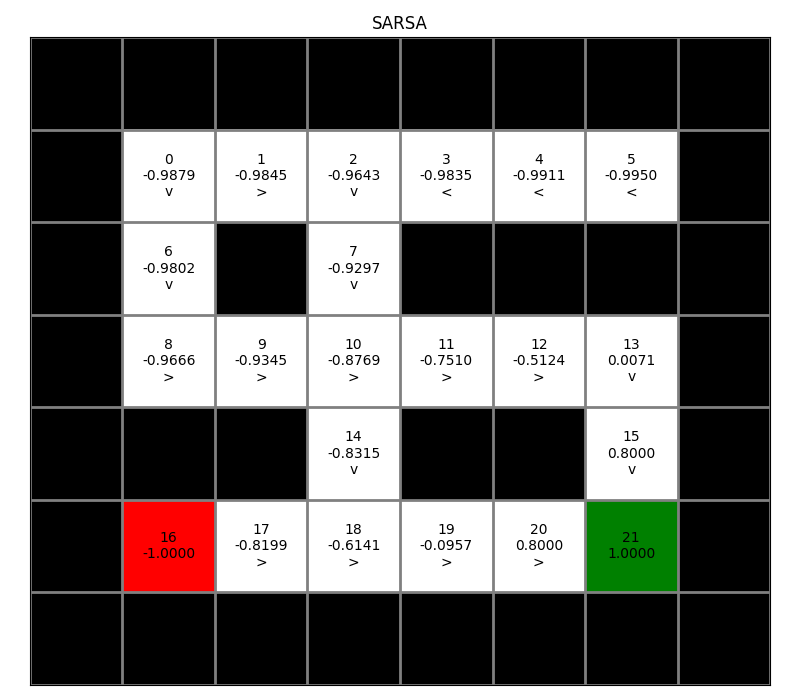
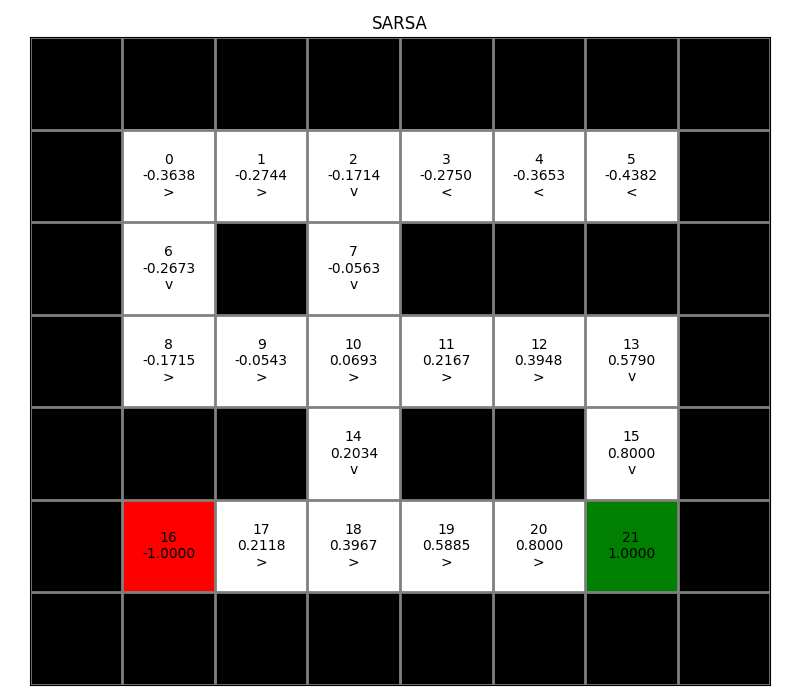
complete coding, before report

diff --git a/RL_hw2/algorithms.py b/RL_hw2/algorithms.py
@@ -2,6 +2,7 @@ import numpy as np
 import json
 from collections import deque
 import math
+import random
 
 from gridworld import GridWorld
 
@@ -366,6 +367,13 @@ class SARSA(ModelFreeControl):
         else:
             self.q_values[s,a] = self.q_values[s,a] + self.lr*(r + self.discount_factor*self.q_values[s2,a2] - self.q_values[s,a])
         
+        #improve the policy
+        a_star = np.argmax(self.q_values[s])
+        for a in range(4):#a=0,1,2,3
+            if a==a_star:
+                self.policy[s,a] = self.epsilon/4 + 1 - self.epsilon
+            else:
+                self.policy[s,a] = self.epsilon/4
         
 
     def run(self, max_episode=1000) -> None:
@@ -375,6 +383,7 @@ class SARSA(ModelFreeControl):
         current_state = self.grid_world.reset()
         St= current_state
         At, next_state, reward, done = self.collect_data() #now agent at 2nd state, due to step()
+        # St=next_state
         prev_s = None
         prev_a = None
         prev_r = None
@@ -421,22 +430,40 @@ class Q_Learning(ModelFreeControl):
 
     def add_buffer(self, s, a, r, s2, d) -> None:
         # TODO: add new transition to buffer
-        raise NotImplementedError
+        self.buffer.append([s,a,r,s2,d])
 
     def sample_batch(self) -> np.ndarray:
         # TODO: sample a batch of index of transitions from the buffer
-        raise NotImplementedError
+        batch = random.sample(self.buffer, self.sample_batch_size)
+        batch_np = np.array(batch,dtype=object)
+        return batch_np
 
     def policy_eval_improve(self, s, a, r, s2, is_done) -> None:
         """Evaluate the policy and update the values after one step"""
         #TODO: Evaluate Q value after one step and improve the policy
-        raise NotImplementedError
+        if is_done:
+            self.q_values[s,a] = self.q_values[s,a] + self.lr * (r + 0 - self.q_values[s,a])
+        else:
+            # print(s2)
+            # print(self.q_values[s2,0])
+            # print([self.q_values[s2,a2] for a2 in range(4)])
+            # print(max([self.q_values[s2,a2] for a2 in range(4)]))
+            self.q_values[s,a] = self.q_values[s,a] + self.lr * (r + self.discount_factor*max([self.q_values[s2,a2] for a2 in range(4)]) - self.q_values[s,a])
+
+        #improve the policy
+        a_star = np.argmax(self.q_values[s])
+        for a in range(4):#a=0,1,2,3
+            if a==a_star:
+                self.policy[s,a] = self.epsilon/4 + 1 - self.epsilon
+            else:
+                self.policy[s,a] = self.epsilon/4
 
     def run(self, max_episode=1000) -> None:
         """Run the algorithm until convergence."""
         # TODO: Implement the Q_Learning algorithm
         iter_episode = 0
         current_state = self.grid_world.reset()
+        St= current_state
         prev_s = None
         prev_a = None
         prev_r = None
@@ -445,6 +472,23 @@ class Q_Learning(ModelFreeControl):
         while iter_episode < max_episode:
             # TODO: write your code here
             # hint: self.grid_world.reset() is NOT needed here
+            At, next_state, reward, is_done = self.collect_data() 
 
-            raise NotImplementedError
+            #store to the transition
+            self.add_buffer(St,At,reward,next_state,is_done)
+
+            transition_count+=1
+            if transition_count%self.update_frequency==0 and len(self.buffer)>self.sample_batch_size: #then update Q
+                Batch = self.sample_batch()
+                for [s,a,r,s2,done] in Batch:
+                    # s = int(s)
+                    # a = int(a)
+                    self.policy_eval_improve(s,a,r,s2,done)
+
+            if is_done:
+                iter_episode+=1
+                if iter_episode%1000==0:
+                    print(iter_episode)
+
+            St = next_state
             

diff --git a/RL_hw2/main.py b/RL_hw2/main.py
@@ -46,14 +46,14 @@ def red(s):
     return "\033[91m" + str(s) + "\033[0m"
 
 
-def init_grid_world(maze_file: str = "maze.txt"):
+def init_grid_world(maze_file: str = "maze.txt", init_pos: list = None):
     print(bold(underline("Grid World")))
     grid_world = GridWorld(
         maze_file,
         step_reward=STEP_REWARD,
         goal_reward=GOAL_REWARD,
         trap_reward=TRAP_REWARD,
-        init_pos=INIT_POS,
+        init_pos=init_pos,
     )
     grid_world.print_maze()
     grid_world.visualize(title="Maze", filename="maze.png", show=False)
@@ -210,13 +210,14 @@ def run_Q_Learning(grid_world: GridWorld, iter_num: int):
 
 if __name__ == "__main__":
     seed = 1
-    grid_world = init_grid_world("maze.txt")
+    grid_world = init_grid_world("maze.txt",INIT_POS)
     # 2-1
     # run_MC_prediction(grid_world,seed)
     # run_TD_prediction(grid_world,seed)
     # run_NstepTD_prediction(grid_world,seed)
 
-    # # # 2-2
+    # 2-2
+    grid_world = init_grid_world("maze.txt")
     # run_MC_policy_iteration(grid_world, 512000)
-    run_SARSA(grid_world, 512000)
-    # run_Q_Learning(grid_world, 50000)
+    # run_SARSA(grid_world, 512000)
+    run_Q_Learning(grid_world, 50000)

diff --git a/RL_hw2/gridworld.py b/RL_hw2/gridworld.py
@@ -202,7 +202,10 @@ class GridWorld:
 
     def reset(self) -> int:
         """Reset the current step"""
-        self.__current_state = self.__init_pos_list[np.random.randint(len(self.__init_pos_list))]
+        if self.__init_pos_list:
+            self.__current_state = self.__init_pos_list[np.random.randint(len(self.__init_pos_list))]
+        else:
+            self.__current_state = np.random.randint(len(self.__state_list))
         return self.__current_state
 
     def reset_step_count(self):
